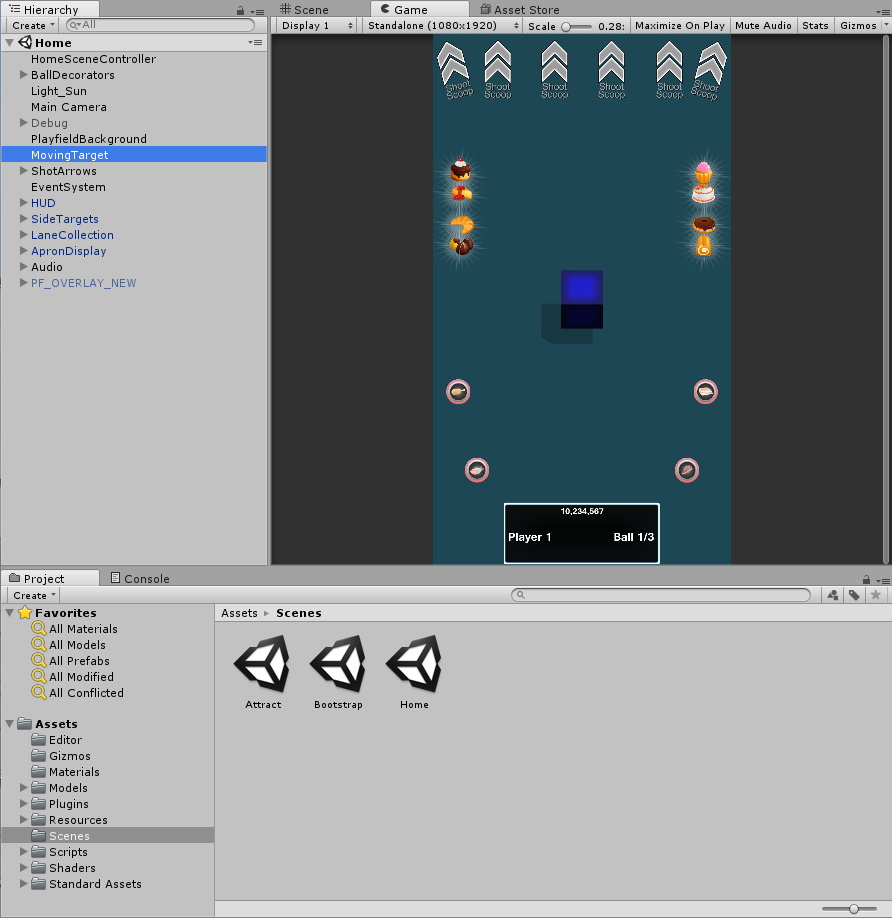
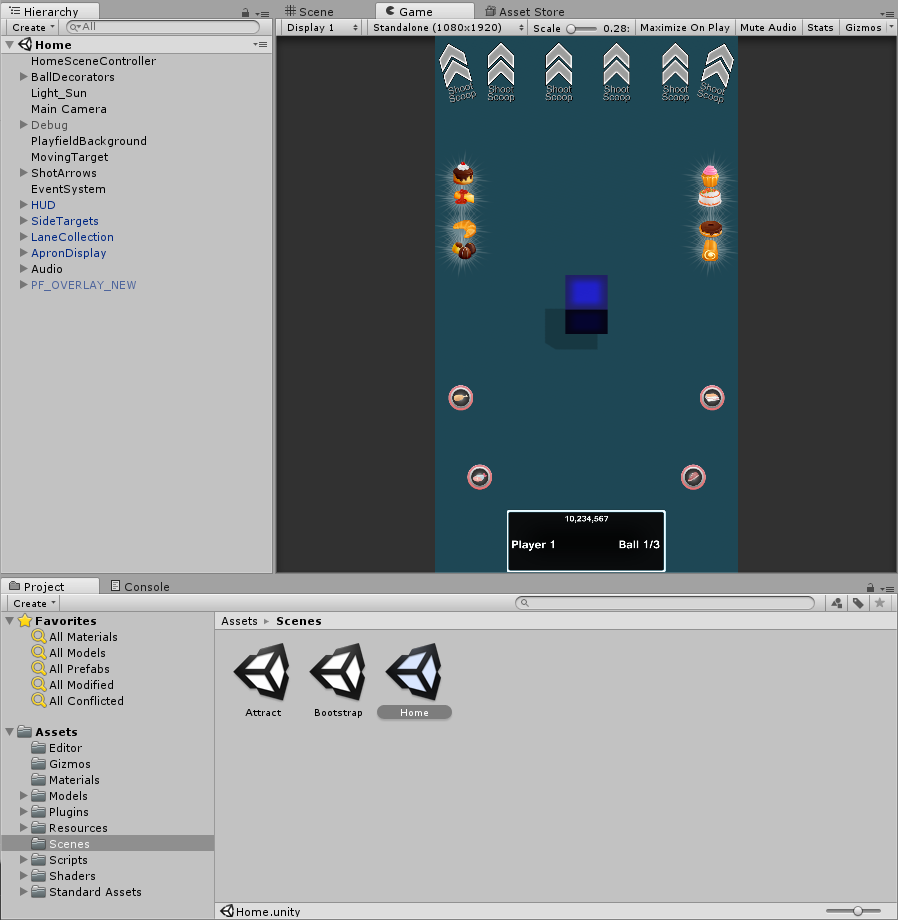
Update MovingTarget

diff --git a/MovingTarget.html b/MovingTarget.html
@@ -1,1 +1,1 @@
-<html><head><meta content="text/html; charset=UTF-8" http-equiv="content-type"><style type="text/css">@import url(https://themes.googleusercontent.com/fonts/css?kit=fpjTOVmNbO4Lz34iLyptLROjXfSpIU_1TsQlCJ7q4WlXEixY9aqhie8CVYCrTb1E);.lst-kix_list_2-6>li:before{content:"\0025cf   "}.lst-kix_list_2-7>li:before{content:"o  "}ul.lst-kix_list_1-0{list-style-type:none}.lst-kix_list_2-4>li:before{content:"o  "}.lst-kix_list_2-5>li:before{content:"\0025aa   "}.lst-kix_list_2-8>li:before{content:"\0025aa   "}.lst-kix_list_3-0>li:before{content:"-  "}.lst-kix_list_3-1>li:before{content:"o  "}.lst-kix_list_3-2>li:before{content:"\0025aa   "}ul.lst-kix_list_3-7{list-style-type:none}ul.lst-kix_list_3-8{list-style-type:none}ul.lst-kix_list_1-3{list-style-type:none}ul.lst-kix_list_3-1{list-style-type:none}.lst-kix_list_3-5>li:before{content:"\0025aa   "}ul.lst-kix_list_1-4{list-style-type:none}ul.lst-kix_list_3-2{list-style-type:none}ul.lst-kix_list_1-1{list-style-type:none}.lst-kix_list_3-4>li:before{content:"o  "}ul.lst-kix_list_1-2{list-style-type:none}ul.lst-kix_list_3-0{list-style-type:none}ul.lst-kix_list_1-7{list-style-type:none}.lst-kix_list_3-3>li:before{content:"\0025cf   "}ul.lst-kix_list_3-5{list-style-type:none}ul.lst-kix_list_1-8{list-style-type:none}ul.lst-kix_list_3-6{list-style-type:none}ul.lst-kix_list_1-5{list-style-type:none}ul.lst-kix_list_3-3{list-style-type:none}ul.lst-kix_list_1-6{list-style-type:none}ul.lst-kix_list_3-4{list-style-type:none}.lst-kix_list_3-8>li:before{content:"\0025aa   "}.lst-kix_list_3-6>li:before{content:"\0025cf   "}.lst-kix_list_3-7>li:before{content:"o  "}ul.lst-kix_list_2-8{list-style-type:none}ul.lst-kix_list_2-2{list-style-type:none}.lst-kix_list_1-0>li:before{content:"\0025cf   "}ul.lst-kix_list_2-3{list-style-type:none}ul.lst-kix_list_2-0{list-style-type:none}ul.lst-kix_list_2-1{list-style-type:none}ul.lst-kix_list_2-6{list-style-type:none}.lst-kix_list_1-1>li:before{content:"o  "}.lst-kix_list_1-2>li:before{content:"\0025aa   "}ul.lst-kix_list_2-7{list-style-type:none}ul.lst-kix_list_2-4{list-style-type:none}ul.lst-kix_list_2-5{list-style-type:none}.lst-kix_list_1-3>li:before{content:"\0025aa   "}.lst-kix_list_1-4>li:before{content:"\0025aa   "}.lst-kix_list_1-7>li:before{content:"\0025aa   "}.lst-kix_list_1-5>li:before{content:"\0025aa   "}.lst-kix_list_1-6>li:before{content:"\0025aa   "}.lst-kix_list_2-0>li:before{content:"\0025cf   "}.lst-kix_list_2-1>li:before{content:"o  "}.lst-kix_list_1-8>li:before{content:"\0025aa   "}.lst-kix_list_2-2>li:before{content:"\0025aa   "}.lst-kix_list_2-3>li:before{content:"\0025cf   "}ol{margin:0;padding:0}table td,table th{padding:0}.c19{border-right-style:solid;padding:0pt 5.4pt 0pt 5.4pt;border-bottom-color:#000000;border-top-width:1pt;border-right-width:1pt;border-left-color:#000000;vertical-align:top;border-right-color:#000000;border-left-width:1pt;border-top-style:solid;border-left-style:solid;border-bottom-width:1pt;width:515.8pt;border-top-color:#000000;border-bottom-style:solid}.c3{color:#000000;font-weight:400;text-decoration:none;vertical-align:baseline;font-size:9pt;font-family:"Consolas";font-style:normal}.c2{color:#000000;font-weight:400;text-decoration:none;vertical-align:baseline;font-size:11pt;font-family:"Calibri";font-style:normal}.c0{padding-top:2pt;padding-bottom:0pt;line-height:1.0791666666666666;page-break-after:avoid;orphans:2;widows:2;text-align:left}.c7{color:#2f5496;font-weight:400;text-decoration:none;vertical-align:baseline;font-size:13pt;font-family:"Calibri";font-style:normal}.c9{padding-top:12pt;padding-bottom:0pt;line-height:1.0791666666666666;page-break-after:avoid;orphans:2;widows:2;text-align:left}.c4{color:#2f5496;font-weight:400;text-decoration:none;vertical-align:baseline;font-size:16pt;font-family:"Calibri";font-style:normal}.c16{padding-top:0pt;padding-bottom:0pt;line-height:1.0791666666666666;orphans:2;widows:2;text-align:left}.c18{padding-top:6pt;padding-bottom:0pt;line-height:1.0;orphans:2;widows:2;text-align:left}.c1{padding-top:0pt;padding-bottom:8pt;line-height:1.0791666666666666;orphans:2;widows:2;text-align:left}.c8{padding-top:12pt;padding-bottom:8pt;line-height:1.0791666666666666;orphans:2;widows:2;text-align:left}.c6{padding-top:0pt;padding-bottom:0pt;line-height:1.0;orphans:2;widows:2;text-align:left}.c11{color:#000000;text-decoration:none;vertical-align:baseline;font-style:normal}.c12{text-decoration-skip-ink:none;-webkit-text-decoration-skip:none;color:#0000ff;text-decoration:underline}.c10{border-spacing:0;border-collapse:collapse;margin-right:auto}.c21{background-color:#ffffff;max-width:516.3pt;padding:72pt 23.7pt 72pt 72pt}.c14{font-size:9pt;font-weight:400;font-family:"Consolas"}.c5{font-size:8pt;font-weight:400;font-family:"Consolas"}.c20{color:inherit;text-decoration:inherit}.c13{height:11pt}.c15{height:0pt}.c17{background-color:#ffff00}.title{padding-top:24pt;color:#000000;font-weight:700;font-size:36pt;padding-bottom:6pt;font-family:"Calibri";line-height:1.0791666666666666;page-break-after:avoid;orphans:2;widows:2;text-align:left}.subtitle{padding-top:18pt;color:#666666;font-size:24pt;padding-bottom:4pt;font-family:"Georgia";line-height:1.0791666666666666;page-break-after:avoid;font-style:italic;orphans:2;widows:2;text-align:left}li{color:#000000;font-size:11pt;font-family:"Calibri"}p{margin:0;color:#000000;font-size:11pt;font-family:"Calibri"}h1{padding-top:12pt;color:#2f5496;font-size:16pt;padding-bottom:0pt;font-family:"Calibri";line-height:1.0791666666666666;page-break-after:avoid;orphans:2;widows:2;text-align:left}h2{padding-top:2pt;color:#2f5496;font-size:13pt;padding-bottom:0pt;font-family:"Calibri";line-height:1.0791666666666666;page-break-after:avoid;orphans:2;widows:2;text-align:left}h3{padding-top:14pt;color:#000000;font-weight:700;font-size:14pt;padding-bottom:4pt;font-family:"Calibri";line-height:1.0791666666666666;page-break-after:avoid;orphans:2;widows:2;text-align:left}h4{padding-top:12pt;color:#000000;font-weight:700;font-size:12pt;padding-bottom:2pt;font-family:"Calibri";line-height:1.0791666666666666;page-break-after:avoid;orphans:2;widows:2;text-align:left}h5{padding-top:11pt;color:#000000;font-weight:700;font-size:11pt;padding-bottom:2pt;font-family:"Calibri";line-height:1.0791666666666666;page-break-after:avoid;orphans:2;widows:2;text-align:left}h6{padding-top:10pt;color:#000000;font-weight:700;font-size:10pt;padding-bottom:2pt;font-family:"Calibri";line-height:1.0791666666666666;page-break-after:avoid;orphans:2;widows:2;text-align:left}</style></head><body class="c21 doc-content"><h1 class="c9"><span class="c4">MovingTarget</span></h1><p class="c1"><span class="c2">This tech tip explores the main feature of P3SampleApp: the rotating cube in the middle of the playfield.</span></p><p class="c1"><span class="c2">This is a good exercise to see the architecture of a P3 application in action.</span></p><h2 class="c0"><span class="c7">Select the Home Scene</span></h2><p class="c1"><span class="c2">With P3SampleApp loaded in Unity, select the Home scene: select Assets &gt; Scenes in the Project view and double-click on the Home scene in the Assets view to the right.</span></p><p class="c1"><span style="overflow: hidden; display: inline-block; margin: 0.00px 0.00px; border: 0.00px solid #000000; transform: rotate(0.00rad) translateZ(0px); -webkit-transform: rotate(0.00rad) translateZ(0px); width: 688.40px; height: 708.47px;"><img alt="" src="images/MovingTarget/image1.png" style="width: 688.40px; height: 708.47px; margin-left: 0.00px; margin-top: 0.00px; transform: rotate(0.00rad) translateZ(0px); -webkit-transform: rotate(0.00rad) translateZ(0px);" title=""></span></p><h2 class="c0"><span class="c7">Inspector</span></h2><p class="c1"><span class="c2">Select MovingTarget in the Hierarchy view. The Inspector view shows the MovingTarget Components.</span></p><p class="c1"><span style="overflow: hidden; display: inline-block; margin: 0.00px 0.00px; border: 0.00px solid #000000; transform: rotate(0.00rad) translateZ(0px); -webkit-transform: rotate(0.00rad) translateZ(0px); width: 425.14px; height: 721.66px;"><img alt="" src="images/MovingTarget/image2.png" style="width: 425.14px; height: 721.66px; margin-left: 0.00px; margin-top: 0.00px; transform: rotate(0.00rad) translateZ(0px); -webkit-transform: rotate(0.00rad) translateZ(0px);" title=""></span></p><p class="c1"><span class="c2">The MovingTarget is a Cube mesh which needs a Mesh Renderer to display itself.</span></p><p class="c1"><span class="c2">The Box Collider and Rigidbody Components enable collision detection with the ball.</span></p><p class="c1"><span class="c2">The Moving Target (Script) is the P3SampleApp specific behavior.</span></p><h2 class="c0"><span class="c7">MovingTarget Script</span></h2><p class="c1"><span class="c2">Right-click the little cog to the right of the Moving Target (Script) in the Inspector view and select &ldquo;Edit Script&rdquo;.</span></p><p class="c1"><span class="c2">This will open P3SampleApp\Assets\Scripts\GUI\Home\MovingTarget.cs in the code editor.</span></p><p class="c1"><span>This assumes you have configured your External Script Editor. See the tech tip </span><span class="c12"><a class="c20" href="P3DevelopmentEnvironmentSetup.html">P3 Development Environment Setup</a></span><span class="c2">.</span></p><p class="c1"><span class="c2">The MovingTarget script runs on the GUI thread. The GUI thread is a typical Unity application. It handles the audio, the display, and object collision.</span></p><p class="c1"><span class="c2">By convention, all application code running on the GUI thread is located somewhere under P3SampleApp\Assets\Scripts\GUI. </span></p><p class="c1"><span class="c2">In the code editor, scroll down to look at the OnTriggerEnter() method.</span></p><table class="c10"><tr class="c15"><td class="c19" colspan="1" rowspan="1"><p class="c18"><span class="c3">public void OnTriggerEnter(Collider other) {</span></p><p class="c6"><span class="c3">&nbsp; &nbsp; &nbsp; &nbsp; &nbsp; &nbsp; if (!isTilted &amp;&amp; disabledCountdown &lt; 0) &nbsp;// if we&#39;re not disabled</span></p><p class="c6"><span class="c3">&nbsp; &nbsp; &nbsp; &nbsp; &nbsp; &nbsp; {</span></p><p class="c6"><span class="c3">&nbsp; &nbsp; &nbsp; &nbsp; &nbsp; &nbsp; &nbsp; &nbsp; disabledCountdown = DISABLED_DURATION; &nbsp;// Allow a debounce period</span></p><p class="c6"><span class="c3">&nbsp; &nbsp; &nbsp; &nbsp; &nbsp; &nbsp; &nbsp; &nbsp; // We&#39;ve been hit! &nbsp;Tell the modes about it.</span></p><p class="c6"><span class="c3">&nbsp; &nbsp; &nbsp; &nbsp; &nbsp; &nbsp; &nbsp; &nbsp; Multimorphic.P3App.Logging.Logger.Log(&quot;GUI layer: Target hit by &quot; + other.name + &quot;. Posting TargetHit event to mode layer.&quot;);</span></p><p class="c6"><span class="c14">&nbsp; &nbsp; &nbsp; &nbsp; &nbsp; &nbsp; &nbsp; &nbsp; </span><span class="c14 c17">PostGUIEventToModes(&quot;Evt_TargetHit&quot;, other.name);</span></p><p class="c6"><span class="c3">&nbsp; &nbsp; &nbsp; &nbsp; &nbsp; &nbsp; &nbsp; &nbsp; gameObject.GetComponent&lt;Renderer&gt;().material.color = Color.red;</span></p><p class="c6"><span class="c3">&nbsp; &nbsp; &nbsp; &nbsp; &nbsp; &nbsp; &nbsp; &nbsp; P3SAAudio.Instance.PlaySound(&quot;MovingTargetHit&quot;);</span></p><p class="c6"><span class="c3">&nbsp; &nbsp; &nbsp; &nbsp; &nbsp; &nbsp; }</span></p><p class="c6"><span class="c3">}</span></p><p class="c6 c13"><span class="c3"></span></p></td></tr></table><p class="c16 c13"><span class="c2"></span></p><p class="c1"><span class="c2">Now assume the game is already started and the player has launched the ball. The SDK tracks the ball and moves a virtual ball avatar in Unity. When the ball avatar collides with the moving target, Unity calls OnTriggerEnter(). If the moving target is not disabled by a recent collision, this will send a GUI event to the modes. It will also change the color to red temporarily and play a sound.</span></p><p class="c1"><span class="c2">The name of the GUI event is Evt_TargetHit. This is not an event defined by the P3 SDK. It is an application specific event. The event argument is the name of the other object that collided with the cube. In P3SampleApp, the only other object that can collide with the MovingTarget is the ball avatar.</span></p><p class="c1"><span class="c2">Notice how the GUI does not take the initiative. Instead, it notifies the modes which will determine how the application responds to the new situation.</span></p><h2 class="c0"><span class="c7">MovingTargetMode</span></h2><p class="c1"><span class="c2">In Unity, select Assets &gt; Scripts &gt; Modes &gt; GameModes in the Project view. Double-click on MovingTargetMode in the Assets view to the right. This will open P3SampleApp\Assets\Scripts\Modes\GameModes\MovingTargetMode.cs in the code editor.</span></p><p class="c1"><span class="c2">This code runs on the mode thread. By convention, all application code running on the mode thread is located somewhere under P3SampleApp\Assets\Scripts\Modes.</span></p><p class="c1"><span class="c2">MovingTargetMode is the mode that controls the MovingTarget from the application side. This mode handles the Evt_TargetHit event. First it has to register its interest in this event.</span></p><table class="c10"><tr class="c15"><td class="c19" colspan="1" rowspan="1"><p class="c6"><span class="c3">public MovingTargetMode (P3Controller controller, int priority)</span></p><p class="c6"><span class="c3">&nbsp;&nbsp;&nbsp;&nbsp;&nbsp;&nbsp;&nbsp;&nbsp;: base(controller, priority)</span></p><p class="c6"><span class="c3">{</span></p><p class="c6"><span class="c14">&nbsp;&nbsp;&nbsp;&nbsp;&nbsp;&nbsp;&nbsp;&nbsp;</span><span class="c14 c17">AddGUIEventHandler(&quot;Evt_TargetHit&quot;, TargetHitEventHandler);</span></p><p class="c6"><span class="c3">&nbsp;&nbsp;&nbsp;&nbsp;&nbsp;&nbsp;&nbsp;&nbsp;&hellip;</span></p><p class="c6"><span class="c3">}</span></p><p class="c6 c13"><span class="c3"></span></p></td></tr></table><p class="c1 c13"><span class="c2"></span></p><p class="c1"><span class="c2">Now look at the event handler itself.</span></p><table class="c10"><tr class="c15"><td class="c19" colspan="1" rowspan="1"><p class="c6"><span class="c3">private void TargetHitEventHandler(string evtName, object evtData)</span></p><p class="c6"><span class="c3">{</span></p><p class="c6"><span class="c3">&nbsp;&nbsp;&nbsp;&nbsp;&nbsp;&nbsp;&nbsp;&nbsp;hitCount++;</span></p><p class="c6"><span class="c3">&nbsp;&nbsp;&nbsp;&nbsp;&nbsp;&nbsp;&nbsp;&nbsp;ScoreManager.Score(Scores.MOVING_TARGET_HIT);</span></p><p class="c6"><span class="c3">&nbsp;&nbsp;&nbsp;&nbsp;&nbsp;&nbsp;&nbsp;&nbsp;&nbsp;&nbsp;&nbsp;&nbsp;&nbsp;&nbsp;&nbsp;&nbsp;&nbsp;&nbsp;&nbsp;&nbsp;&nbsp;&nbsp;&nbsp;&nbsp;</span></p><p class="c6"><span class="c3">&nbsp;&nbsp;&nbsp;&nbsp;&nbsp;&nbsp;&nbsp;&nbsp;// Hit by whom?</span></p><p class="c6"><span class="c3">&nbsp;&nbsp;&nbsp;&nbsp;&nbsp;&nbsp;&nbsp;&nbsp;string hitBy = (string)evtData;</span></p><p class="c6"><span class="c3">&nbsp;&nbsp;&nbsp;&nbsp;&nbsp;&nbsp;&nbsp;&nbsp;Multimorphic.P3App.Logging.Logger.Log(&quot;Mode layer: Received TargetHit event from GUI layer. &nbsp;Target hit by &quot; + hitBy);</span></p><p class="c6 c13"><span class="c3"></span></p><p class="c6"><span class="c3">&nbsp;&nbsp;&nbsp;&nbsp;&nbsp;&nbsp;&nbsp;&nbsp;// Tell the UI to move the target to a new position</span></p><p class="c6"><span class="c3">&nbsp;&nbsp;&nbsp;&nbsp;&nbsp;&nbsp;&nbsp;&nbsp;int newPos = hitCount % (MAX_HITS + 1);</span></p><p class="c6"><span class="c3">&nbsp;&nbsp;&nbsp;&nbsp;&nbsp;&nbsp;&nbsp;&nbsp;Multimorphic.P3App.Logging.Logger.Log(&quot;Mode layer: Posting MoveTarget event to GUI layer to move to position &quot; + newPos.ToString());</span></p><p class="c6"><span class="c14">&nbsp;&nbsp;&nbsp;&nbsp;&nbsp;&nbsp;&nbsp;&nbsp;</span><span class="c14 c17">PostModeEventToGUI(&quot;Evt_MoveTarget&quot;, newPos);</span></p><p class="c6"><span class="c3">}</span></p><p class="c6 c13"><span class="c3"></span></p></td></tr></table><p class="c13 c16"><span class="c2"></span></p><p class="c1"><span class="c2">The active modes that registered an interest in Evt_TargetHit will receive the event. In P3SampleApp, the only mode that registered an interest in Evt_TargetHit is MovingTargetMode. When the Evt_TargetHit event is received, its TargetHitEventHandler is called.</span></p><p class="c1"><span class="c2">The mode reacts by adding 10000 to the score. After some logging, the mode decides the cube has to move to a new location determined by hitCount. Since moving the cube is a display operation, it sends the mode event Evt_MoveTarget to the GUI.</span></p><h2 class="c0"><span class="c7">MovingTarget Script Again</span></h2><p class="c1"><span class="c2">This code is in the same MovingTarget script we saw earlier.</span></p><table class="c10"><tr class="c15"><td class="c19" colspan="1" rowspan="1"><p class="c18"><span class="c11 c5">protected override void CreateEventHandlers() {</span></p><p class="c6"><span class="c11 c5">&nbsp;&nbsp;&nbsp;&nbsp;&nbsp;&nbsp;&nbsp;&nbsp;base.CreateEventHandlers ();</span></p><p class="c6"><span class="c5">&nbsp;&nbsp;&nbsp;&nbsp;&nbsp;&nbsp;&nbsp;&nbsp;</span><span class="c5 c17">AddModeEventHandler(&quot;Evt_MoveTarget&quot;, MoveTargetEventHandler);</span></p><p class="c6"><span class="c11 c5">&nbsp;&nbsp;&nbsp;&nbsp;&nbsp;&nbsp;&nbsp;&nbsp;&hellip;</span></p><p class="c6"><span class="c11 c5">}</span></p><p class="c6 c13"><span class="c11 c5"></span></p><p class="c6"><span class="c11 c5">public void MoveTargetEventHandler(string eventName, object eventData) {</span></p><p class="c6"><span class="c11 c5">&nbsp;&nbsp;&nbsp;&nbsp;&nbsp;&nbsp;&nbsp;&nbsp;// Mode is telling us to move</span></p><p class="c6"><span class="c11 c5">&nbsp;&nbsp;&nbsp;&nbsp;&nbsp;&nbsp;&nbsp;&nbsp;Multimorphic.P3App.Logging.Logger.Log (&quot;GUI layer: Received MoveTarget event from mode layer.&quot;);</span></p><p class="c6"><span class="c11 c5">&nbsp;&nbsp;&nbsp;&nbsp;&nbsp;&nbsp;&nbsp;&nbsp;int index = (int) eventData;</span></p><p class="c6"><span class="c5">&nbsp;&nbsp;&nbsp;&nbsp;&nbsp;&nbsp;&nbsp;&nbsp;</span><span class="c5 c17">destination = new Vector3(-7f + index,</span></p><p class="c6"><span class="c5">&nbsp;&nbsp;&nbsp;&nbsp;&nbsp;&nbsp;&nbsp;&nbsp;&nbsp; &nbsp; &nbsp; &nbsp; &nbsp; &nbsp; &nbsp; &nbsp; &nbsp; &nbsp; &nbsp; &nbsp; &nbsp; &nbsp; &nbsp; &nbsp; &nbsp; </span><span class="c5 c17">gameObject.transform.localPosition.y,</span></p><p class="c6"><span class="c5">&nbsp;&nbsp;&nbsp;&nbsp;&nbsp;&nbsp;&nbsp;&nbsp;&nbsp; &nbsp; &nbsp; &nbsp; &nbsp; &nbsp; &nbsp; &nbsp; &nbsp; &nbsp; &nbsp; &nbsp; &nbsp; &nbsp; &nbsp; &nbsp; &nbsp; </span><span class="c5 c17">Random.Range (-2.5f, 2.5f));</span></p><p class="c6"><span class="c11 c5">}</span></p><p class="c6 c13"><span class="c11 c5"></span></p></td></tr></table><p class="c8"><span class="c2">The components that registered an interest in Evt_MoveTarget will receive the event. In P3SampleApp, the only P3Aware component that registered an interest in Evt_MoveTarget is MovingTarget. When the Evt_MoveTarget event is received, its MoveTargetEventHandler is called. </span></p><p class="c1"><span class="c2">This event handler simply modifies the final destination. The actual movement occurs in the Update() method.</span></p><table class="c10"><tr class="c15"><td class="c19" colspan="1" rowspan="1"><p class="c18"><span class="c11 c5">public override void Update () {</span></p><p class="c6"><span class="c11 c5">&nbsp; &nbsp; if (!isTilted)</span></p><p class="c6"><span class="c11 c5">&nbsp; &nbsp; {</span></p><p class="c6"><span class="c11 c5">&nbsp;&nbsp;&nbsp;&nbsp;&nbsp;&nbsp;&nbsp;&nbsp;base.Update ();</span></p><p class="c6"><span class="c11 c5">&nbsp;&nbsp;&nbsp;&nbsp;&nbsp;&nbsp;&nbsp;&nbsp;gameObject.GetComponent&lt;Renderer&gt;().material.color =</span></p><p class="c6"><span class="c11 c5">&nbsp;&nbsp;&nbsp;&nbsp;&nbsp;&nbsp;&nbsp;&nbsp;&nbsp;&nbsp;&nbsp;&nbsp;&nbsp;&nbsp;&nbsp;&nbsp;Color.Lerp(gameObject.GetComponent&lt;Renderer&gt;().material.color, Color.blue, Time.deltaTime * 1.5f);</span></p><p class="c6"><span class="c5">&nbsp;&nbsp;&nbsp;&nbsp;&nbsp;&nbsp;&nbsp;&nbsp;</span><span class="c5 c17">gameObject.transform.localPosition = Vector3.Lerp(gameObject.transform.localPosition, destination,</span></p><p class="c6"><span class="c5">&nbsp;&nbsp;&nbsp;&nbsp;&nbsp;&nbsp;&nbsp;&nbsp;&nbsp;&nbsp;&nbsp;&nbsp;&nbsp;&nbsp;&nbsp;&nbsp;</span><span class="c5 c17">Time.deltaTime * SPEED);</span></p><p class="c6"><span class="c11 c5">&nbsp;&nbsp;&nbsp;&nbsp;&nbsp;&nbsp;&nbsp;&nbsp;gameObject.transform.Rotate(new Vector3(1f, 2f, 3f));</span></p><p class="c6 c13"><span class="c11 c5"></span></p><p class="c6"><span class="c11 c5">&nbsp;&nbsp;&nbsp;&nbsp;&nbsp;&nbsp;&nbsp;&nbsp;if (disabledCountdown &gt; 0)</span></p><p class="c6"><span class="c11 c5">&nbsp;&nbsp;&nbsp;&nbsp;&nbsp;&nbsp;&nbsp;&nbsp;&nbsp;&nbsp;&nbsp;&nbsp;&nbsp;&nbsp;&nbsp;&nbsp;disabledCountdown -= Time.deltaTime;</span></p><p class="c6"><span class="c11 c5">&nbsp; &nbsp; }</span></p><p class="c6"><span class="c11 c5">}</span></p><p class="c6 c13"><span class="c11 c5"></span></p></td></tr></table><p class="c8"><span class="c2">The Update() method gradually changes the color back to blue, and gradually moves the cube to its final destination. It also rotates the cube a constant amount.</span></p><p class="c8"><span class="c2">The name Lerp stands for Linear Interpolation. It is commonly used to smooth transitions between two values over time.</span></p><h2 class="c0"><span class="c7">SceneController</span></h2><p class="c1"><span class="c2">MovingTarget does not do this, but another common practice is to send a mode to GUI event to the SceneController like HomeSceneController. This centralizes the event handlers in the SceneController making them easy to find. This is a good option when the event affects multiple objects in the scene.</span></p><p class="c1"><span class="c2">If the event is used in multiple scenes, a good place to implement the event handler is in the shared base class &lt;appcode&gt;SceneController. In P3SampleApp, that&rsquo;s P3SASceneController.</span></p></body></html>
+<html><head><meta content="text/html; charset=UTF-8" http-equiv="content-type"><style type="text/css">@import url(https://themes.googleusercontent.com/fonts/css?kit=fpjTOVmNbO4Lz34iLyptLROjXfSpIU_1TsQlCJ7q4WlXEixY9aqhie8CVYCrTb1E);.lst-kix_list_2-6>li:before{content:"\0025cf   "}.lst-kix_list_2-7>li:before{content:"o  "}ul.lst-kix_list_1-0{list-style-type:none}.lst-kix_list_2-4>li:before{content:"o  "}.lst-kix_list_2-5>li:before{content:"\0025aa   "}.lst-kix_list_2-8>li:before{content:"\0025aa   "}.lst-kix_list_3-0>li:before{content:"-  "}.lst-kix_list_3-1>li:before{content:"o  "}.lst-kix_list_3-2>li:before{content:"\0025aa   "}ul.lst-kix_list_3-7{list-style-type:none}ul.lst-kix_list_3-8{list-style-type:none}ul.lst-kix_list_1-3{list-style-type:none}ul.lst-kix_list_3-1{list-style-type:none}.lst-kix_list_3-5>li:before{content:"\0025aa   "}ul.lst-kix_list_1-4{list-style-type:none}ul.lst-kix_list_3-2{list-style-type:none}ul.lst-kix_list_1-1{list-style-type:none}.lst-kix_list_3-4>li:before{content:"o  "}ul.lst-kix_list_1-2{list-style-type:none}ul.lst-kix_list_3-0{list-style-type:none}ul.lst-kix_list_1-7{list-style-type:none}.lst-kix_list_3-3>li:before{content:"\0025cf   "}ul.lst-kix_list_3-5{list-style-type:none}ul.lst-kix_list_1-8{list-style-type:none}ul.lst-kix_list_3-6{list-style-type:none}ul.lst-kix_list_1-5{list-style-type:none}ul.lst-kix_list_3-3{list-style-type:none}ul.lst-kix_list_1-6{list-style-type:none}ul.lst-kix_list_3-4{list-style-type:none}.lst-kix_list_3-8>li:before{content:"\0025aa   "}.lst-kix_list_3-6>li:before{content:"\0025cf   "}.lst-kix_list_3-7>li:before{content:"o  "}ul.lst-kix_list_2-8{list-style-type:none}ul.lst-kix_list_2-2{list-style-type:none}.lst-kix_list_1-0>li:before{content:"\0025cf   "}ul.lst-kix_list_2-3{list-style-type:none}ul.lst-kix_list_2-0{list-style-type:none}ul.lst-kix_list_2-1{list-style-type:none}ul.lst-kix_list_2-6{list-style-type:none}.lst-kix_list_1-1>li:before{content:"o  "}.lst-kix_list_1-2>li:before{content:"\0025aa   "}ul.lst-kix_list_2-7{list-style-type:none}ul.lst-kix_list_2-4{list-style-type:none}ul.lst-kix_list_2-5{list-style-type:none}.lst-kix_list_1-3>li:before{content:"\0025aa   "}.lst-kix_list_1-4>li:before{content:"\0025aa   "}.lst-kix_list_1-7>li:before{content:"\0025aa   "}.lst-kix_list_1-5>li:before{content:"\0025aa   "}.lst-kix_list_1-6>li:before{content:"\0025aa   "}.lst-kix_list_2-0>li:before{content:"\0025cf   "}.lst-kix_list_2-1>li:before{content:"o  "}.lst-kix_list_1-8>li:before{content:"\0025aa   "}.lst-kix_list_2-2>li:before{content:"\0025aa   "}.lst-kix_list_2-3>li:before{content:"\0025cf   "}ol{margin:0;padding:0}table td,table th{padding:0}.c17{border-right-style:solid;padding:0pt 5.4pt 0pt 5.4pt;border-bottom-color:#000000;border-top-width:1pt;border-right-width:1pt;border-left-color:#000000;vertical-align:top;border-right-color:#000000;border-left-width:1pt;border-top-style:solid;border-left-style:solid;border-bottom-width:1pt;width:515.8pt;border-top-color:#000000;border-bottom-style:solid}.c12{padding-top:2pt;padding-bottom:0pt;line-height:1.0791666666666666;page-break-after:avoid;orphans:2;widows:2;text-align:left}.c2{color:#2f5496;font-weight:400;text-decoration:none;vertical-align:baseline;font-size:13pt;font-family:"Calibri";font-style:normal}.c19{padding-top:12pt;padding-bottom:0pt;line-height:1.0791666666666666;page-break-after:avoid;orphans:2;widows:2;text-align:left}.c5{color:#000000;font-weight:400;text-decoration:none;vertical-align:baseline;font-size:11pt;font-family:"Calibri";font-style:normal}.c7{color:#000000;font-weight:400;text-decoration:none;vertical-align:baseline;font-size:9pt;font-family:"Consolas";font-style:normal}.c21{color:#2f5496;font-weight:400;text-decoration:none;vertical-align:baseline;font-size:16pt;font-family:"Calibri";font-style:normal}.c0{color:#000000;font-weight:400;text-decoration:none;vertical-align:baseline;font-size:8pt;font-family:"Consolas";font-style:normal}.c13{padding-top:0pt;padding-bottom:0pt;line-height:1.0791666666666666;orphans:2;widows:2;text-align:left}.c15{padding-top:6pt;padding-bottom:0pt;line-height:1.0;orphans:2;widows:2;text-align:left}.c3{padding-top:0pt;padding-bottom:0pt;line-height:1.0;orphans:2;widows:2;text-align:left}.c4{padding-top:12pt;padding-bottom:8pt;line-height:1.0791666666666666;orphans:2;widows:2;text-align:left}.c1{padding-top:0pt;padding-bottom:8pt;line-height:1.0791666666666666;orphans:2;widows:2;text-align:left}.c16{text-decoration-skip-ink:none;-webkit-text-decoration-skip:none;color:#0000ff;text-decoration:underline}.c14{border-spacing:0;border-collapse:collapse;margin-right:auto}.c9{font-size:9pt;font-weight:400;font-family:"Consolas"}.c8{font-size:8pt;font-weight:400;font-family:"Consolas"}.c20{background-color:#ffffff;max-width:516.3pt;padding:72pt 23.7pt 72pt 72pt}.c18{color:inherit;text-decoration:inherit}.c10{background-color:#ffff00}.c11{height:0pt}.c6{height:11pt}.title{padding-top:24pt;color:#000000;font-weight:700;font-size:36pt;padding-bottom:6pt;font-family:"Calibri";line-height:1.0791666666666666;page-break-after:avoid;orphans:2;widows:2;text-align:left}.subtitle{padding-top:18pt;color:#666666;font-size:24pt;padding-bottom:4pt;font-family:"Georgia";line-height:1.0791666666666666;page-break-after:avoid;font-style:italic;orphans:2;widows:2;text-align:left}li{color:#000000;font-size:11pt;font-family:"Calibri"}p{margin:0;color:#000000;font-size:11pt;font-family:"Calibri"}h1{padding-top:12pt;color:#2f5496;font-size:16pt;padding-bottom:0pt;font-family:"Calibri";line-height:1.0791666666666666;page-break-after:avoid;orphans:2;widows:2;text-align:left}h2{padding-top:2pt;color:#2f5496;font-size:13pt;padding-bottom:0pt;font-family:"Calibri";line-height:1.0791666666666666;page-break-after:avoid;orphans:2;widows:2;text-align:left}h3{padding-top:14pt;color:#000000;font-weight:700;font-size:14pt;padding-bottom:4pt;font-family:"Calibri";line-height:1.0791666666666666;page-break-after:avoid;orphans:2;widows:2;text-align:left}h4{padding-top:12pt;color:#000000;font-weight:700;font-size:12pt;padding-bottom:2pt;font-family:"Calibri";line-height:1.0791666666666666;page-break-after:avoid;orphans:2;widows:2;text-align:left}h5{padding-top:11pt;color:#000000;font-weight:700;font-size:11pt;padding-bottom:2pt;font-family:"Calibri";line-height:1.0791666666666666;page-break-after:avoid;orphans:2;widows:2;text-align:left}h6{padding-top:10pt;color:#000000;font-weight:700;font-size:10pt;padding-bottom:2pt;font-family:"Calibri";line-height:1.0791666666666666;page-break-after:avoid;orphans:2;widows:2;text-align:left}</style></head><body class="c20 doc-content"><h1 class="c19"><span class="c21">MovingTarget</span></h1><p class="c1"><span class="c5">This tech tip explores the main feature of P3SampleApp: the rotating cube in the middle of the playfield.</span></p><p class="c1"><span class="c5">This is a good exercise to see the architecture of a P3 application in action.</span></p><h2 class="c12"><span class="c2">Home Scene</span></h2><p class="c1"><span class="c5">Select the Home scene: with P3SampleApp loaded in Unity, select Assets &gt; Scenes in the Project view and double-click on the Home scene in the Assets view to the right.</span></p><p class="c1"><span style="overflow: hidden; display: inline-block; margin: 0.00px 0.00px; border: 0.00px solid #000000; transform: rotate(0.00rad) translateZ(0px); -webkit-transform: rotate(0.00rad) translateZ(0px); width: 688.40px; height: 705.27px;"><img alt="" src="images/MovingTarget/image1.png" style="width: 688.40px; height: 705.27px; margin-left: 0.00px; margin-top: 0.00px; transform: rotate(0.00rad) translateZ(0px); -webkit-transform: rotate(0.00rad) translateZ(0px);" title=""></span></p><h2 class="c12"><span class="c2">Inspector</span></h2><p class="c1"><span class="c5">Select MovingTarget in the Hierarchy view. The Inspector view shows the MovingTarget Components.</span></p><p class="c1"><span style="overflow: hidden; display: inline-block; margin: 0.00px 0.00px; border: 0.00px solid #000000; transform: rotate(0.00rad) translateZ(0px); -webkit-transform: rotate(0.00rad) translateZ(0px); width: 425.14px; height: 721.66px;"><img alt="" src="images/MovingTarget/image2.png" style="width: 425.14px; height: 721.66px; margin-left: 0.00px; margin-top: 0.00px; transform: rotate(0.00rad) translateZ(0px); -webkit-transform: rotate(0.00rad) translateZ(0px);" title=""></span></p><p class="c1"><span class="c5">The MovingTarget is a cube mesh that requires a Mesh Renderer to be displayed.</span></p><p class="c1"><span class="c5">The Box Collider and Rigidbody Components enable collision detection with the ball.</span></p><p class="c1"><span class="c5">The Moving Target (Script) is the P3SampleApp-specific behavior.</span></p><h2 class="c12"><span class="c2">MovingTarget Script</span></h2><p class="c1"><span class="c5">Right-click the little cog to the right of the Moving Target (Script) in the Inspector view and select &ldquo;Edit Script&rdquo;.</span></p><p class="c1"><span class="c5">This will open P3SampleApp\Assets\Scripts\GUI\Home\MovingTarget.cs in the code editor.</span></p><p class="c1"><span>This assumes you have configured your External Script Editor. See the tech tip </span><span class="c16"><a class="c18" href="P3DevelopmentEnvironmentSetup.html">P3 Development Environment Setup</a></span><span class="c5">.</span></p><p class="c1"><span class="c5">The MovingTarget script runs on the GUI thread. The GUI thread is a typical Unity application. It handles the audio, the display, and object collision.</span></p><p class="c1"><span class="c5">By convention, all application code running on the GUI thread is located somewhere under P3SampleApp\Assets\Scripts\GUI. </span></p><p class="c1"><span class="c5">In the code editor, scroll down to look at the OnTriggerEnter() method.</span></p><table class="c14"><tr class="c11"><td class="c17" colspan="1" rowspan="1"><p class="c15"><span class="c7">public void OnTriggerEnter(Collider other) {</span></p><p class="c3"><span class="c7">&nbsp; &nbsp; &nbsp; &nbsp; &nbsp; &nbsp; if (!isTilted &amp;&amp; disabledCountdown &lt; 0) &nbsp;// if we&#39;re not disabled</span></p><p class="c3"><span class="c7">&nbsp; &nbsp; &nbsp; &nbsp; &nbsp; &nbsp; {</span></p><p class="c3"><span class="c7">&nbsp; &nbsp; &nbsp; &nbsp; &nbsp; &nbsp; &nbsp; &nbsp; disabledCountdown = DISABLED_DURATION; &nbsp;// Allow a debounce period</span></p><p class="c3"><span class="c7">&nbsp; &nbsp; &nbsp; &nbsp; &nbsp; &nbsp; &nbsp; &nbsp; // We&#39;ve been hit! &nbsp;Tell the modes about it.</span></p><p class="c3"><span class="c7">&nbsp; &nbsp; &nbsp; &nbsp; &nbsp; &nbsp; &nbsp; &nbsp; Multimorphic.P3App.Logging.Logger.Log(&quot;GUI layer: Target hit by &quot; + other.name + &quot;. Posting TargetHit event to mode layer.&quot;);</span></p><p class="c3"><span class="c9">&nbsp; &nbsp; &nbsp; &nbsp; &nbsp; &nbsp; &nbsp; &nbsp; </span><span class="c9 c10">PostGUIEventToModes(&quot;Evt_TargetHit&quot;, other.name);</span></p><p class="c3"><span class="c7">&nbsp; &nbsp; &nbsp; &nbsp; &nbsp; &nbsp; &nbsp; &nbsp; gameObject.GetComponent&lt;Renderer&gt;().material.color = Color.red;</span></p><p class="c3"><span class="c7">&nbsp; &nbsp; &nbsp; &nbsp; &nbsp; &nbsp; &nbsp; &nbsp; P3SAAudio.Instance.PlaySound(&quot;MovingTargetHit&quot;);</span></p><p class="c3"><span class="c7">&nbsp; &nbsp; &nbsp; &nbsp; &nbsp; &nbsp; }</span></p><p class="c3"><span class="c7">}</span></p><p class="c3 c6"><span class="c7"></span></p></td></tr></table><p class="c6 c13"><span class="c5"></span></p><p class="c1"><span class="c5">Now assume the game is already started and the player has launched the ball. The SDK tracks the ball and moves a virtual ball avatar in Unity. When the ball avatar collides with the moving target, Unity calls OnTriggerEnter(). If the moving target is not disabled by a recent collision, this will send a GUI event to the modes. It will also change the color to red temporarily and play a sound.</span></p><p class="c1"><span class="c5">The name of the GUI event is Evt_TargetHit. This is not an event defined by the P3 SDK. It is an application-specific event. The event argument is the name of the other object that collided with the cube. In P3SampleApp, the only other object that can collide with the MovingTarget is the ball avatar.</span></p><p class="c1"><span class="c5">Notice that the GUI does not take the initiative. Instead, it notifies the modes, which will determine how the application responds to the new situation.</span></p><h2 class="c12"><span class="c2">MovingTargetMode</span></h2><p class="c1"><span class="c5">In Unity, select Assets &gt; Scripts &gt; Modes &gt; GameModes in the Project view. Double-click on MovingTargetMode in the Assets view to the right. This will open P3SampleApp\Assets\Scripts\Modes\GameModes\MovingTargetMode.cs in the code editor.</span></p><p class="c1"><span class="c5">This code runs on the mode thread. By convention, all application code running on the mode thread is located somewhere under P3SampleApp\Assets\Scripts\Modes.</span></p><p class="c1"><span class="c5">MovingTargetMode is the mode that controls the MovingTarget from the application side. This mode handles the Evt_TargetHit event. First, it must register its interest in this event.</span></p><table class="c14"><tr class="c11"><td class="c17" colspan="1" rowspan="1"><p class="c3"><span class="c7">public MovingTargetMode (P3Controller controller, int priority)</span></p><p class="c3"><span class="c7">&nbsp;&nbsp;&nbsp;&nbsp;&nbsp;&nbsp;&nbsp;&nbsp;: base(controller, priority)</span></p><p class="c3"><span class="c7">{</span></p><p class="c3"><span class="c9">&nbsp;&nbsp;&nbsp;&nbsp;&nbsp;&nbsp;&nbsp;&nbsp;</span><span class="c9 c10">AddGUIEventHandler(&quot;Evt_TargetHit&quot;, TargetHitEventHandler);</span></p><p class="c3"><span class="c7">&nbsp;&nbsp;&nbsp;&nbsp;&nbsp;&nbsp;&nbsp;&nbsp;&hellip;</span></p><p class="c3"><span class="c7">}</span></p><p class="c3 c6"><span class="c7"></span></p></td></tr></table><p class="c1 c6"><span class="c5"></span></p><p class="c1"><span class="c5">Now look at the event handler itself.</span></p><table class="c14"><tr class="c11"><td class="c17" colspan="1" rowspan="1"><p class="c3"><span class="c7">private void TargetHitEventHandler(string evtName, object evtData)</span></p><p class="c3"><span class="c7">{</span></p><p class="c3"><span class="c7">&nbsp;&nbsp;&nbsp;&nbsp;&nbsp;&nbsp;&nbsp;&nbsp;hitCount++;</span></p><p class="c3"><span class="c7">&nbsp;&nbsp;&nbsp;&nbsp;&nbsp;&nbsp;&nbsp;&nbsp;ScoreManager.Score(Scores.MOVING_TARGET_HIT);</span></p><p class="c3"><span class="c7">&nbsp;&nbsp;&nbsp;&nbsp;&nbsp;&nbsp;&nbsp;&nbsp;&nbsp;&nbsp;&nbsp;&nbsp;&nbsp;&nbsp;&nbsp;&nbsp;&nbsp;&nbsp;&nbsp;&nbsp;&nbsp;&nbsp;&nbsp;&nbsp;</span></p><p class="c3"><span class="c7">&nbsp;&nbsp;&nbsp;&nbsp;&nbsp;&nbsp;&nbsp;&nbsp;// Hit by whom?</span></p><p class="c3"><span class="c7">&nbsp;&nbsp;&nbsp;&nbsp;&nbsp;&nbsp;&nbsp;&nbsp;string hitBy = (string)evtData;</span></p><p class="c3"><span class="c7">&nbsp;&nbsp;&nbsp;&nbsp;&nbsp;&nbsp;&nbsp;&nbsp;Multimorphic.P3App.Logging.Logger.Log(&quot;Mode layer: Received TargetHit event from GUI layer. &nbsp;Target hit by &quot; + hitBy);</span></p><p class="c3 c6"><span class="c7"></span></p><p class="c3"><span class="c7">&nbsp;&nbsp;&nbsp;&nbsp;&nbsp;&nbsp;&nbsp;&nbsp;// Tell the UI to move the target to a new position</span></p><p class="c3"><span class="c7">&nbsp;&nbsp;&nbsp;&nbsp;&nbsp;&nbsp;&nbsp;&nbsp;int newPos = hitCount % (MAX_HITS + 1);</span></p><p class="c3"><span class="c7">&nbsp;&nbsp;&nbsp;&nbsp;&nbsp;&nbsp;&nbsp;&nbsp;Multimorphic.P3App.Logging.Logger.Log(&quot;Mode layer: Posting MoveTarget event to GUI layer to move to position &quot; + newPos.ToString());</span></p><p class="c3"><span class="c9">&nbsp;&nbsp;&nbsp;&nbsp;&nbsp;&nbsp;&nbsp;&nbsp;</span><span class="c9 c10">PostModeEventToGUI(&quot;Evt_MoveTarget&quot;, newPos);</span></p><p class="c3"><span class="c7">}</span></p><p class="c3 c6"><span class="c7"></span></p></td></tr></table><p class="c13 c6"><span class="c5"></span></p><p class="c1"><span class="c5">The active modes that registered interest in Evt_TargetHit will receive the event. In P3SampleApp, the only mode that registered interest in Evt_TargetHit is MovingTargetMode. When the Evt_TargetHit event is received, its TargetHitEventHandler is called.</span></p><p class="c1"><span class="c5">The mode reacts by adding 10000 to the score. After logging the event, the mode decides the cube should move to a new location determined by hitCount. Since moving the cube is a display operation, it sends the mode event Evt_MoveTarget to the GUI.</span></p><h2 class="c12"><span class="c2">MovingTarget Script Again</span></h2><p class="c1"><span class="c5">This code is in the same MovingTarget script we saw earlier.</span></p><table class="c14"><tr class="c11"><td class="c17" colspan="1" rowspan="1"><p class="c15"><span class="c0">protected override void CreateEventHandlers() {</span></p><p class="c3"><span class="c0">&nbsp;&nbsp;&nbsp;&nbsp;&nbsp;&nbsp;&nbsp;&nbsp;base.CreateEventHandlers ();</span></p><p class="c3"><span class="c8">&nbsp;&nbsp;&nbsp;&nbsp;&nbsp;&nbsp;&nbsp;&nbsp;</span><span class="c8 c10">AddModeEventHandler(&quot;Evt_MoveTarget&quot;, MoveTargetEventHandler);</span></p><p class="c3"><span class="c0">&nbsp;&nbsp;&nbsp;&nbsp;&nbsp;&nbsp;&nbsp;&nbsp;&hellip;</span></p><p class="c3"><span class="c0">}</span></p><p class="c3 c6"><span class="c0"></span></p><p class="c3"><span class="c0">public void MoveTargetEventHandler(string eventName, object eventData) {</span></p><p class="c3"><span class="c0">&nbsp;&nbsp;&nbsp;&nbsp;&nbsp;&nbsp;&nbsp;&nbsp;// Mode is telling us to move</span></p><p class="c3"><span class="c0">&nbsp;&nbsp;&nbsp;&nbsp;&nbsp;&nbsp;&nbsp;&nbsp;Multimorphic.P3App.Logging.Logger.Log (&quot;GUI layer: Received MoveTarget event from mode layer.&quot;);</span></p><p class="c3"><span class="c0">&nbsp;&nbsp;&nbsp;&nbsp;&nbsp;&nbsp;&nbsp;&nbsp;int index = (int) eventData;</span></p><p class="c3"><span class="c8">&nbsp;&nbsp;&nbsp;&nbsp;&nbsp;&nbsp;&nbsp;&nbsp;</span><span class="c8 c10">destination = new Vector3(-7f + index,</span></p><p class="c3"><span class="c8">&nbsp;&nbsp;&nbsp;&nbsp;&nbsp;&nbsp;&nbsp;&nbsp;&nbsp; &nbsp; &nbsp; &nbsp; &nbsp; &nbsp; &nbsp; &nbsp; &nbsp; &nbsp; &nbsp; &nbsp; &nbsp; &nbsp; &nbsp; &nbsp; &nbsp; </span><span class="c8 c10">gameObject.transform.localPosition.y,</span></p><p class="c3"><span class="c8">&nbsp;&nbsp;&nbsp;&nbsp;&nbsp;&nbsp;&nbsp;&nbsp;&nbsp; &nbsp; &nbsp; &nbsp; &nbsp; &nbsp; &nbsp; &nbsp; &nbsp; &nbsp; &nbsp; &nbsp; &nbsp; &nbsp; &nbsp; &nbsp; &nbsp; </span><span class="c8 c10">Random.Range (-2.5f, 2.5f));</span></p><p class="c3"><span class="c0">}</span></p><p class="c3 c6"><span class="c0"></span></p></td></tr></table><p class="c4"><span class="c5">The components that registered interest in Evt_MoveTarget will receive the event. In P3SampleApp, the only P3Aware component that registered interest in Evt_MoveTarget is MovingTarget. When the Evt_MoveTarget event is received, its MoveTargetEventHandler is called. </span></p><p class="c1"><span class="c5">This event handler simply modifies the final destination. The actual movement occurs in the Update() method.</span></p><table class="c14"><tr class="c11"><td class="c17" colspan="1" rowspan="1"><p class="c15"><span class="c0">public override void Update () {</span></p><p class="c3"><span class="c0">&nbsp; &nbsp; if (!isTilted)</span></p><p class="c3"><span class="c0">&nbsp; &nbsp; {</span></p><p class="c3"><span class="c0">&nbsp;&nbsp;&nbsp;&nbsp;&nbsp;&nbsp;&nbsp;&nbsp;base.Update ();</span></p><p class="c3"><span class="c0">&nbsp;&nbsp;&nbsp;&nbsp;&nbsp;&nbsp;&nbsp;&nbsp;gameObject.GetComponent&lt;Renderer&gt;().material.color =</span></p><p class="c3"><span class="c0">&nbsp;&nbsp;&nbsp;&nbsp;&nbsp;&nbsp;&nbsp;&nbsp;&nbsp;&nbsp;&nbsp;&nbsp;&nbsp;&nbsp;&nbsp;&nbsp;Color.Lerp(gameObject.GetComponent&lt;Renderer&gt;().material.color, Color.blue, Time.deltaTime * 1.5f);</span></p><p class="c3"><span class="c8">&nbsp;&nbsp;&nbsp;&nbsp;&nbsp;&nbsp;&nbsp;&nbsp;</span><span class="c8 c10">gameObject.transform.localPosition = Vector3.Lerp(gameObject.transform.localPosition, destination,</span></p><p class="c3"><span class="c8">&nbsp;&nbsp;&nbsp;&nbsp;&nbsp;&nbsp;&nbsp;&nbsp;&nbsp;&nbsp;&nbsp;&nbsp;&nbsp;&nbsp;&nbsp;&nbsp;</span><span class="c8 c10">Time.deltaTime * SPEED);</span></p><p class="c3"><span class="c0">&nbsp;&nbsp;&nbsp;&nbsp;&nbsp;&nbsp;&nbsp;&nbsp;gameObject.transform.Rotate(new Vector3(1f, 2f, 3f));</span></p><p class="c3 c6"><span class="c0"></span></p><p class="c3"><span class="c0">&nbsp;&nbsp;&nbsp;&nbsp;&nbsp;&nbsp;&nbsp;&nbsp;if (disabledCountdown &gt; 0)</span></p><p class="c3"><span class="c0">&nbsp;&nbsp;&nbsp;&nbsp;&nbsp;&nbsp;&nbsp;&nbsp;&nbsp;&nbsp;&nbsp;&nbsp;&nbsp;&nbsp;&nbsp;&nbsp;disabledCountdown -= Time.deltaTime;</span></p><p class="c3"><span class="c0">&nbsp; &nbsp; }</span></p><p class="c3"><span class="c0">}</span></p><p class="c3 c6"><span class="c0"></span></p></td></tr></table><p class="c4"><span class="c5">The Update() method gradually changes the color back to blue, and gradually moves the cube to its final destination. It also rotates the cube a constant amount each frame.</span></p><p class="c4"><span class="c5">The name Lerp stands for linear interpolation. It is commonly used to smooth transitions between two values over time.</span></p><h2 class="c12"><span class="c2">SceneController</span></h2><p class="c1"><span class="c5">MovingTarget does not do this, but another common practice is to send a Mode-to-GUI event to the SceneController like HomeSceneController. This centralizes the event handlers in the SceneController, making them easier to find. This is a good option when the event affects multiple objects in the scene.</span></p><p class="c1"><span class="c5">If an event is used in multiple scenes, a good place to implement the event handler is in the shared base class &lt;appcode&gt;SceneController. In P3SampleApp, that&rsquo;s P3SASceneController.</span></p></body></html>